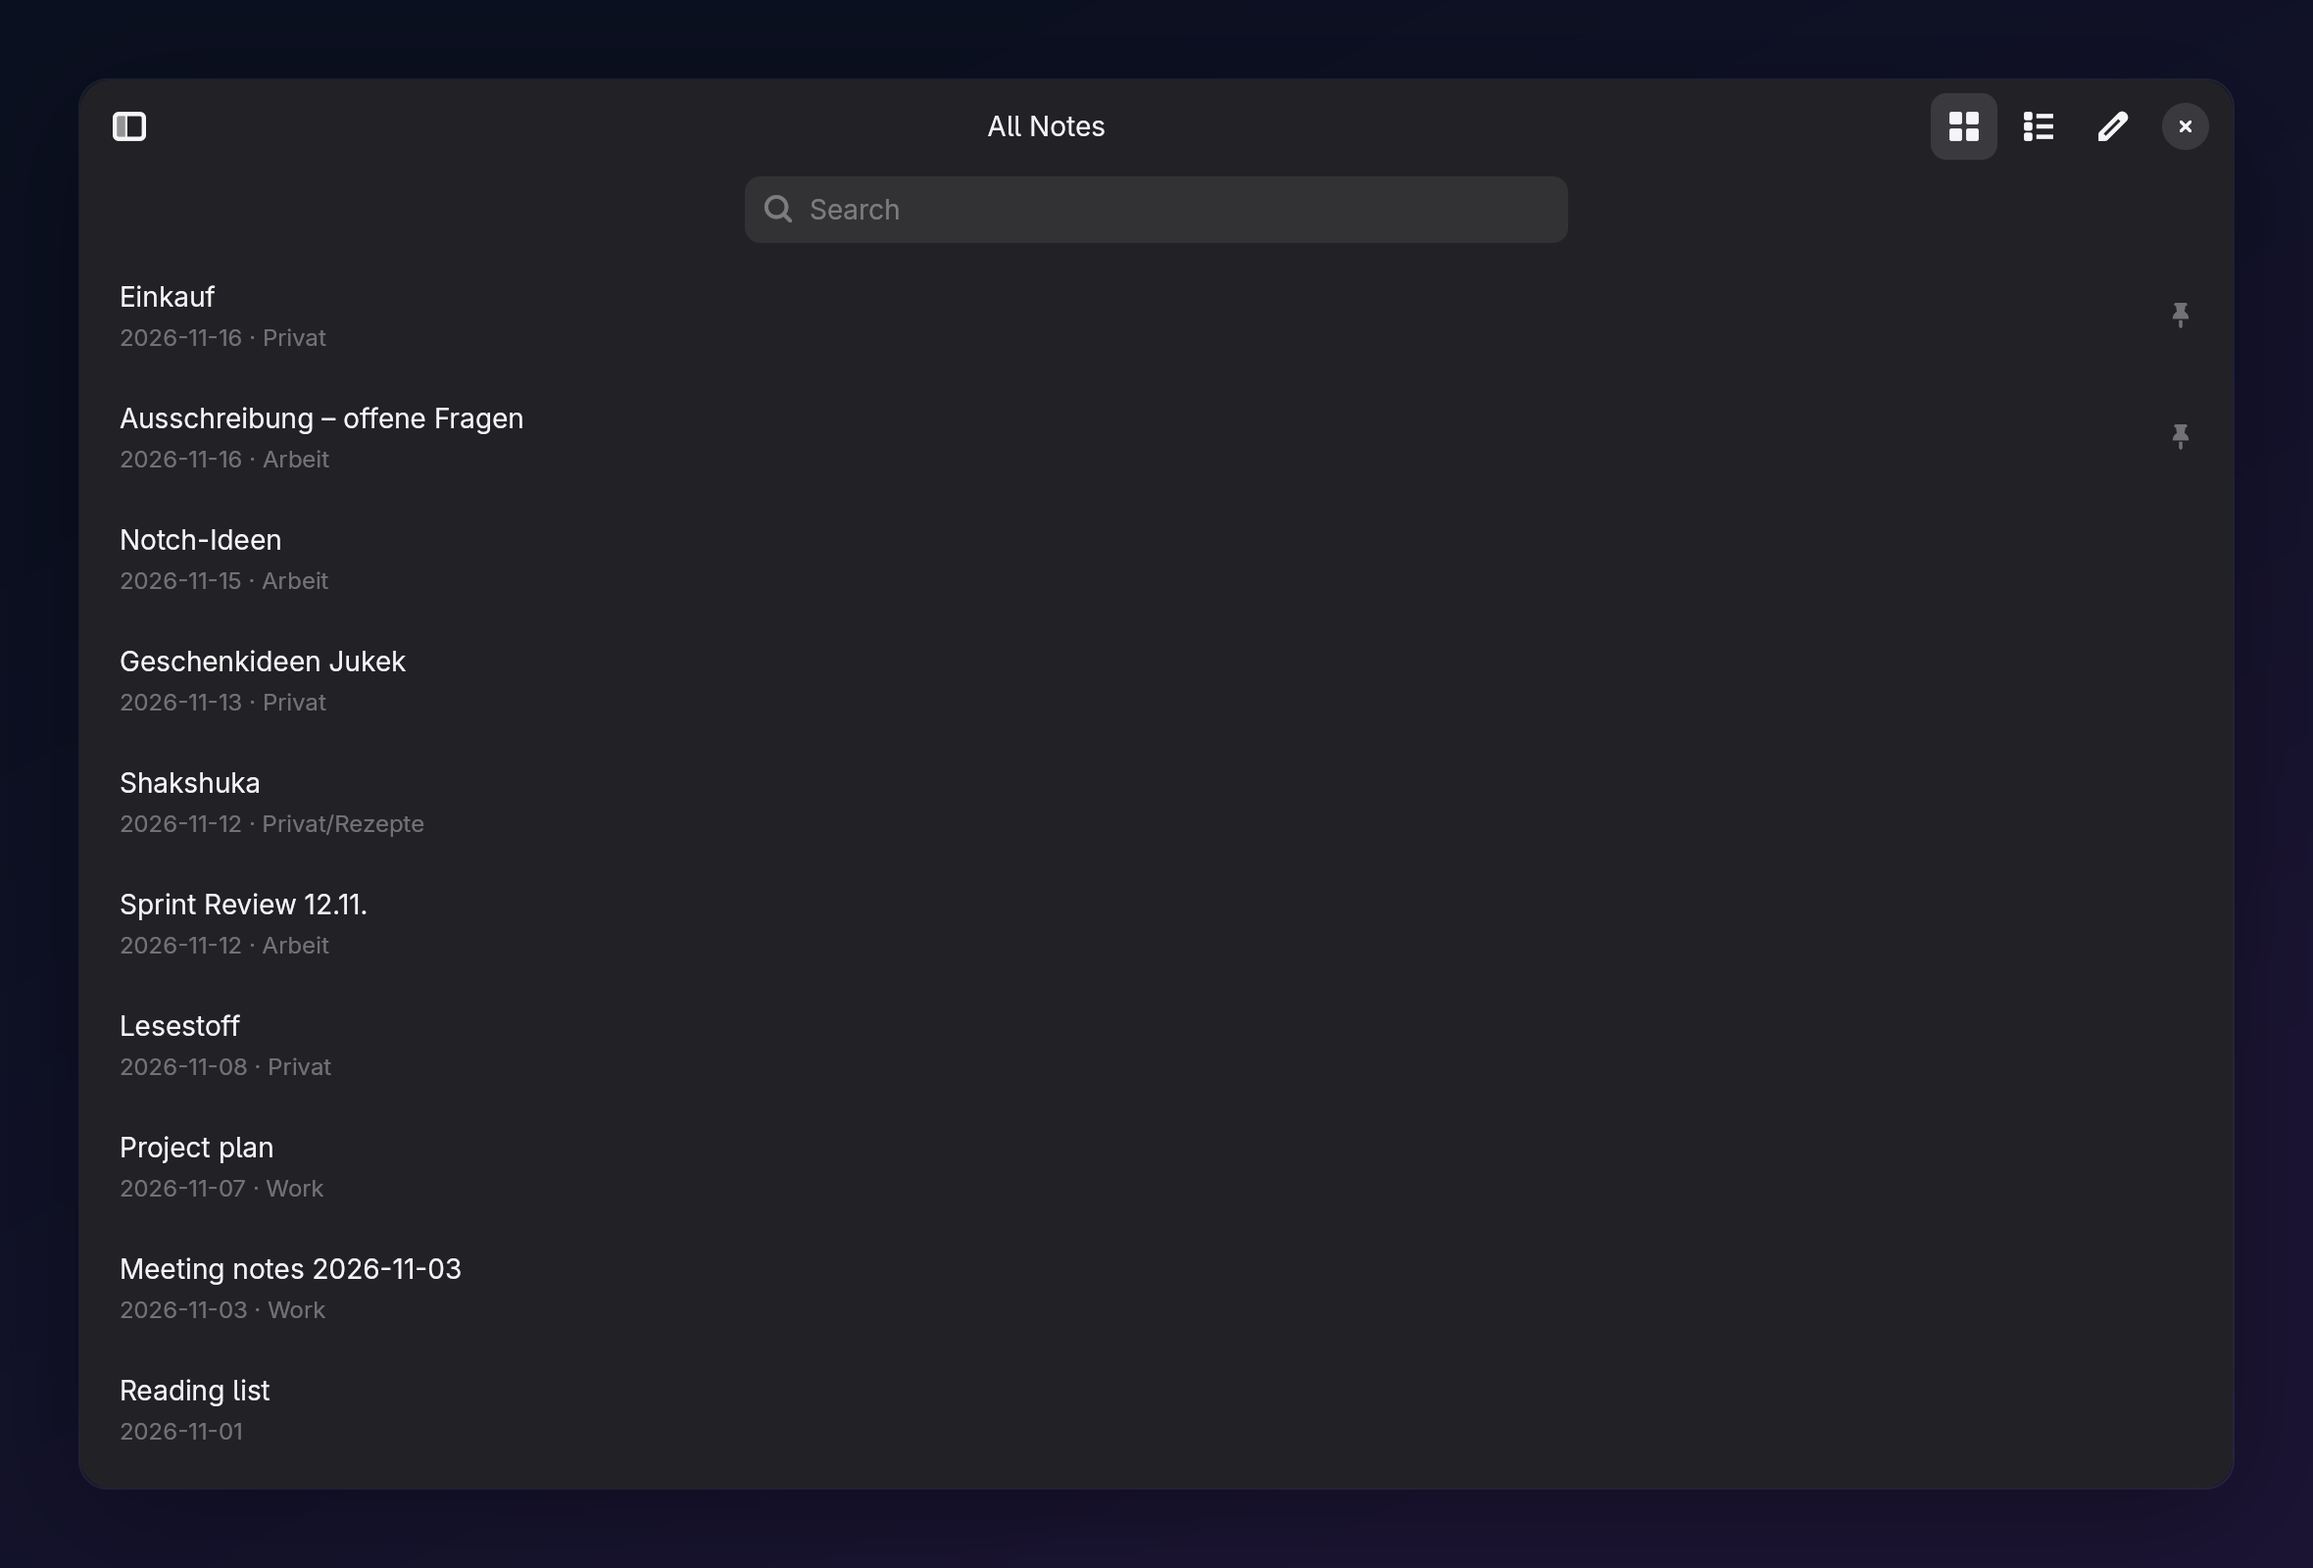
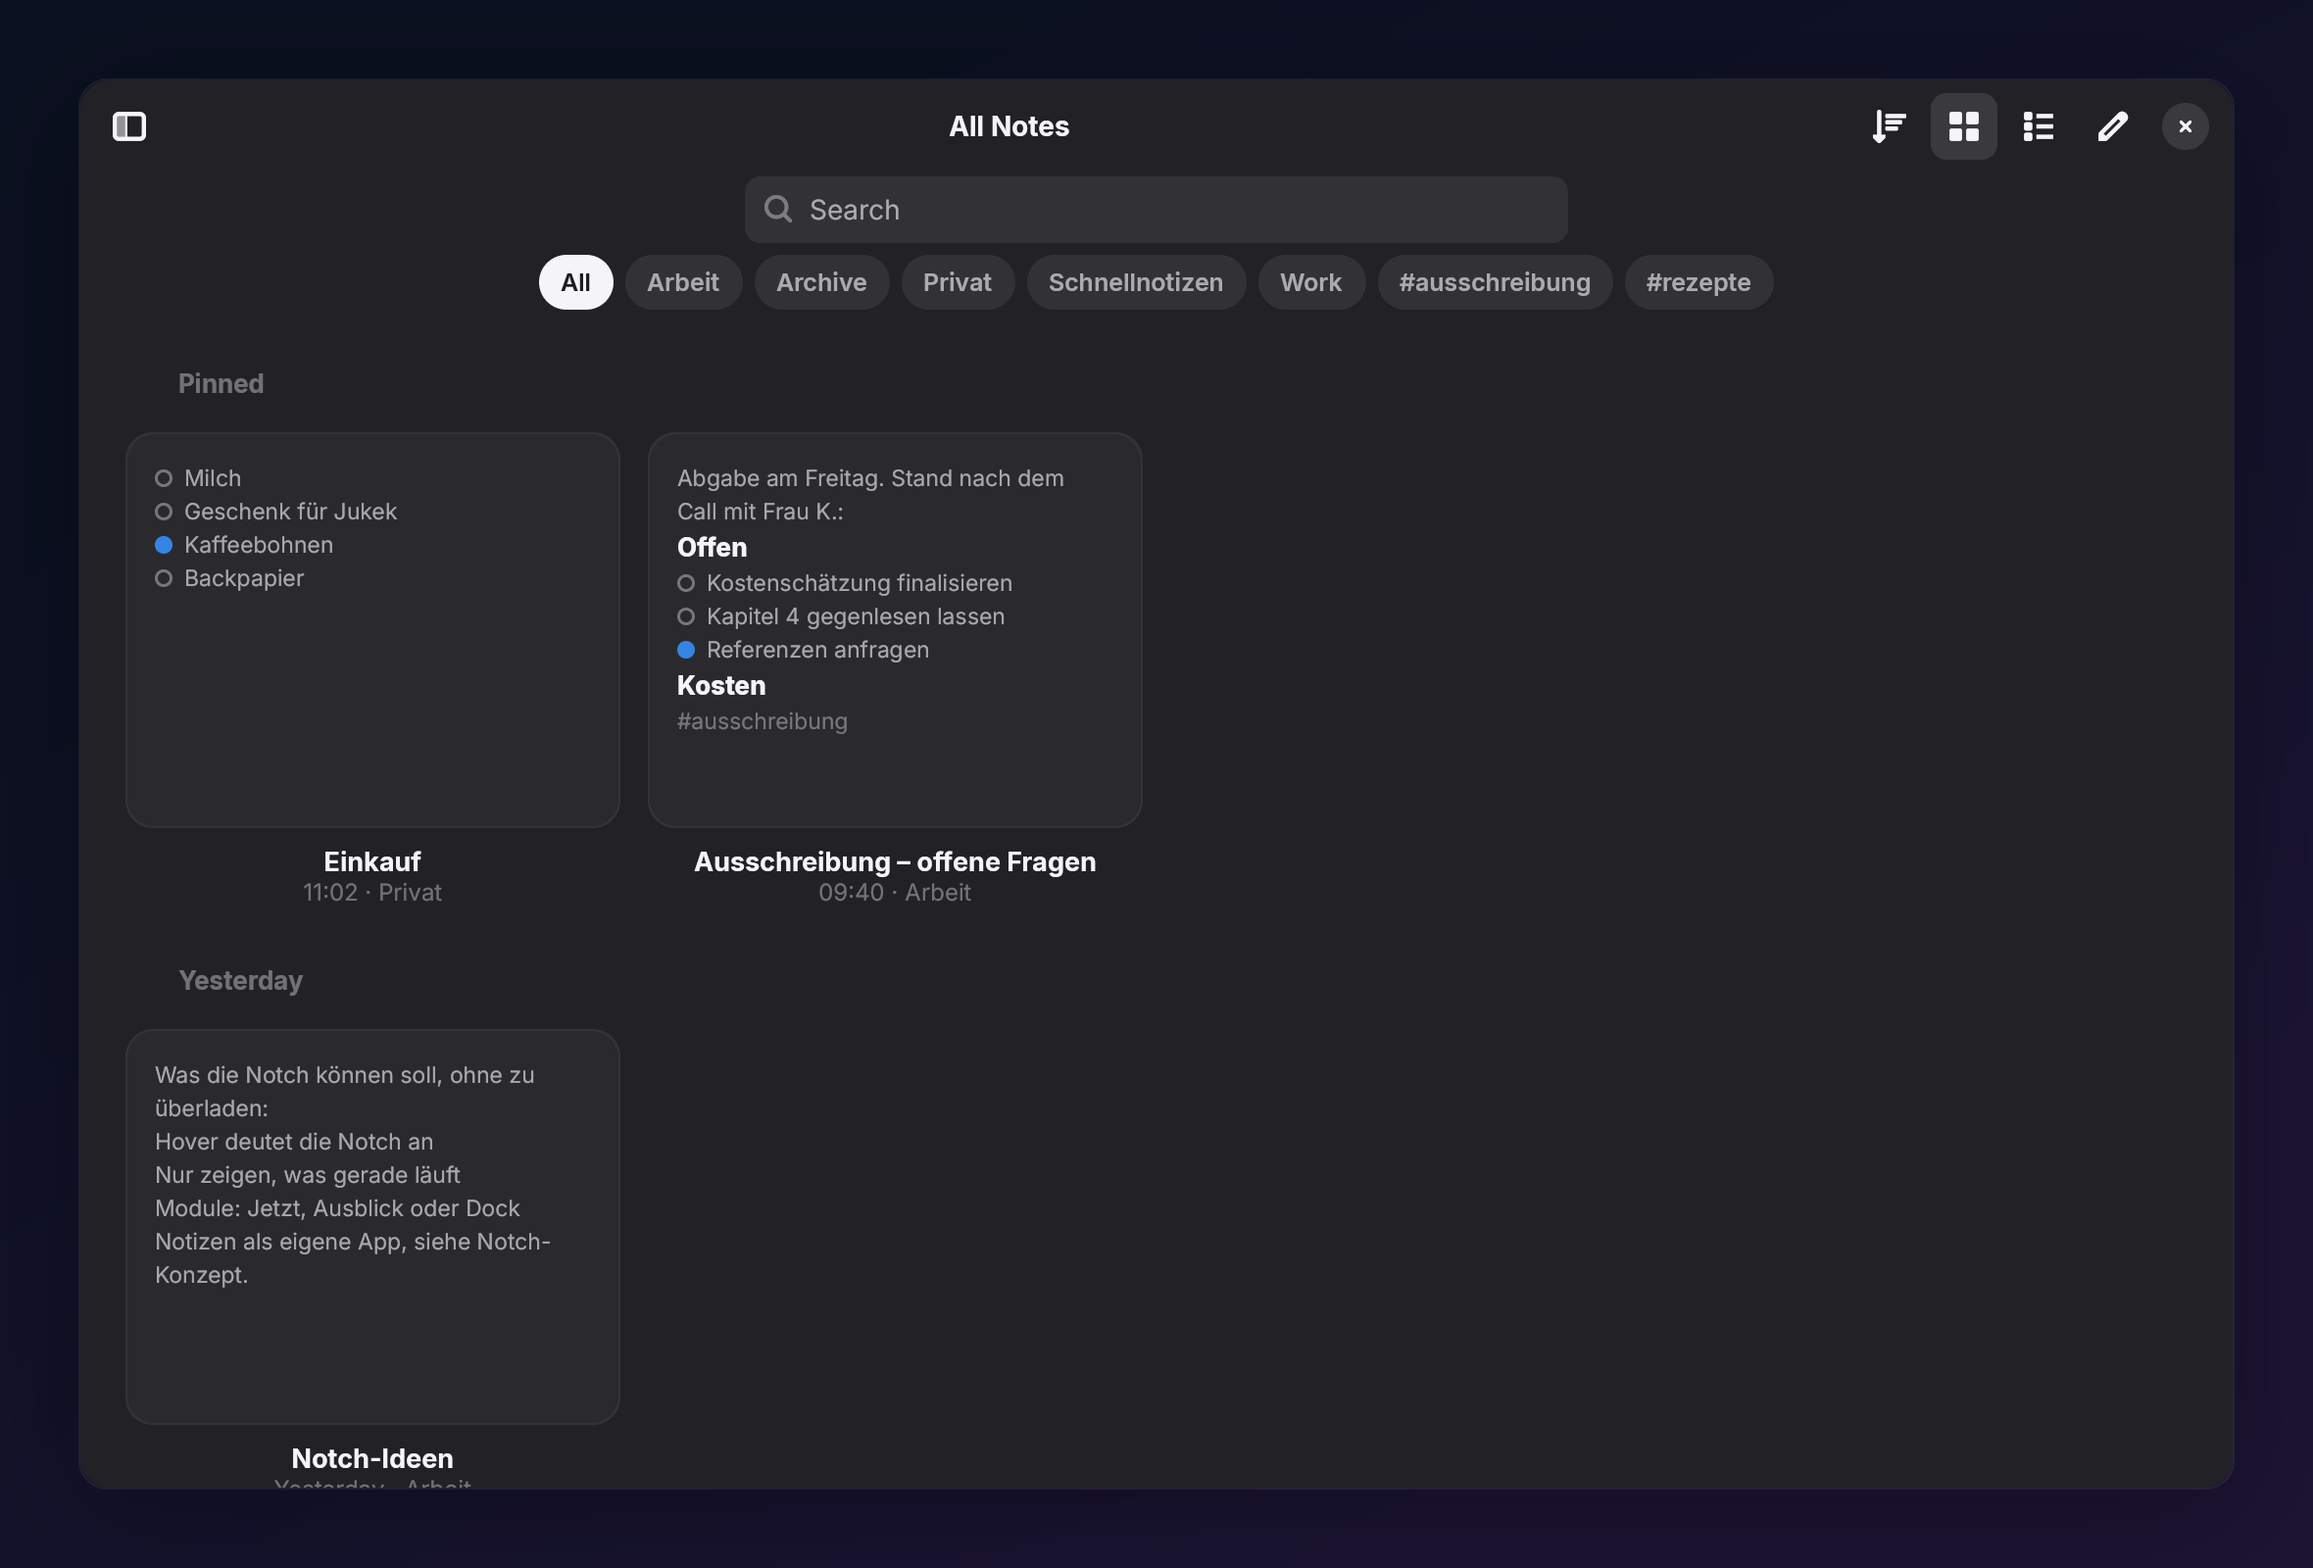
test(screenshots): gallery search, list, folders and empty scenes

diff --git a/crates/sheaf/tests/screenshots.rs b/crates/sheaf/tests/screenshots.rs
@@ -7,8 +7,9 @@
 //! # Adding a scene
 //!
 //! Write a function that brings the window into the state to show and add it to
-//! [`SCENES`]. A scene gets the main window's view and the offscreen app; it runs for
-//! the dark and the light theme and ends up as `docs/screenshots/app-<name>-<theme>.png`.
+//! [`SCENES`] with the notes folder it starts from. A scene gets the main window's view
+//! and the offscreen app; it runs for the dark and the light theme and ends up as
+//! `docs/screenshots/app-<name>-<theme>.png`.
 //!
 //! An offscreen window reports server-side decorations (GPUI 0.3.12 has no way to ask
 //! for others), so gpui-component draws no frame. The harness puts the window on a
@@ -29,9 +30,11 @@ use gpui::{
 use gpui_component::{ActiveTheme as _, Root, Theme};
 use sheaf::app::assets::Assets;
 use sheaf::app::chrome::AssumeClientDecorations;
+use sheaf::app::gallery::Popover;
 use sheaf::app::theme::size::WINDOW_RADIUS;
 use sheaf::app::window::{self, MainWindow};
 use sheaf_core::Sort;
+use sheaf_core::config::View;
 
 /// The default size of the main window.
 const WIDTH: f32 = 1100.;
@@ -106,10 +109,50 @@ impl Stage {
 
 type Scene = fn(&mut Stage);
 
-const SCENES: &[(&str, Scene)] = &[("gallery", gallery), ("note", note)];
+/// The notes folder a scene starts from.
+#[derive(Clone, Copy, PartialEq, Eq)]
+enum Folder {
+    Seeded,
+    Empty,
+}
 
-/// The start view with the seeded notes.
+const SCENES: &[(&str, Folder, Scene)] = &[
+    ("gallery", Folder::Seeded, gallery),
+    ("gallery-search", Folder::Seeded, gallery_search),
+    ("gallery-list", Folder::Seeded, gallery_list),
+    ("gallery-folders", Folder::Seeded, gallery_folders),
+    ("gallery-empty", Folder::Empty, gallery),
+    ("note", Folder::Seeded, note),
+];
+
+/// The start view as it opens.
 fn gallery(_: &mut Stage) {}
+
+/// A search with a filter chip and highlighted hits.
+fn gallery_search(stage: &mut Stage) {
+    stage.update(|main, _, cx| {
+        main.gallery().update(cx, |gallery, cx| {
+            gallery.set_query("hat:checkliste für", cx)
+        });
+    });
+}
+
+/// The compact list instead of the cards.
+fn gallery_list(stage: &mut Stage) {
+    stage.update(|main, _, cx| {
+        main.gallery()
+            .update(cx, |gallery, cx| gallery.set_view(View::List, cx));
+    });
+}
+
+/// The folder popover of the header bar.
+fn gallery_folders(stage: &mut Stage) {
+    stage.update(|main, _, cx| {
+        main.gallery().update(cx, |gallery, cx| {
+            gallery.set_popover(Some(Popover::Folders), cx)
+        });
+    });
+}
 
 /// A note with a checklist and a table, opened from the gallery.
 fn note(stage: &mut Stage) {
@@ -128,24 +171,26 @@ fn note(stage: &mut Stage) {
 #[test]
 #[ignore = "needs a GPU and writes docs/screenshots, run scripts/screenshot.sh"]
 fn app_scenes() {
-    for (name, scene) in SCENES {
+    for (name, folder, scene) in SCENES {
         for (theme, dark) in [("dark", true), ("light", false)] {
-            capture(&format!("app-{name}-{theme}"), dark, *scene);
+            capture(&format!("app-{name}-{theme}"), dark, *folder, *scene);
         }
     }
 }
 
-/// Renders `scene` on the seeded notes folder and writes
-/// `docs/screenshots/<name>.png`. The image is twice the window size because the
-/// offscreen window has a scale factor of 2.
-fn capture(name: &str, dark: bool, scene: Scene) {
+/// Renders `scene` on `folder` and writes `docs/screenshots/<name>.png`. The image is
+/// twice the window size because the offscreen window has a scale factor of 2.
+fn capture(name: &str, dark: bool, folder: Folder, scene: Scene) {
     // Every platform instance starts its own worker threads, so the text system is
     // taken from one platform and shared by all screenshots.
     static TEXT_SYSTEM: OnceLock<Arc<dyn PlatformTextSystem>> = OnceLock::new();
     let text_system =
         TEXT_SYSTEM.get_or_init(|| gpui_platform::current_platform(true).text_system());
 
-    let notes = Notes::seeded();
+    let notes = match folder {
+        Folder::Seeded => Notes::seeded(),
+        Folder::Empty => Notes::empty(),
+    };
     let mut cx = HeadlessAppContext::with_platform(
         text_system.clone(),
         Arc::new(Assets),
@@ -186,14 +231,20 @@ fn capture(name: &str, dark: bool, scene: Scene) {
     let listed = stage
         .cx
         .update(|cx| library.read(cx).notes(Vec::new(), Sort::Modified, cx));
-    assert_eq!(
-        pollster(&stage.cx, listed).len(),
-        14,
-        "the fixture has 14 notes"
-    );
+    let expected = if folder == Folder::Seeded { 14 } else { 0 };
+    assert_eq!(pollster(&stage.cx, listed).len(), expected);
 
     scene(&mut stage);
     stage.cx.run_until_parked();
+    // Miniatures and covers load in the background; the first frame asks for them.
+    for _ in 0..3 {
+        stage
+            .cx
+            .update_window(stage.window, |_, window, cx| window.draw(cx).clear(cx))
+            .expect("failed to draw");
+        std::thread::sleep(std::time::Duration::from_millis(100));
+        stage.cx.run_until_parked();
+    }
     stage
         .cx
         .update_window(stage.window, |_, window, cx| window.draw(cx).clear(cx))
